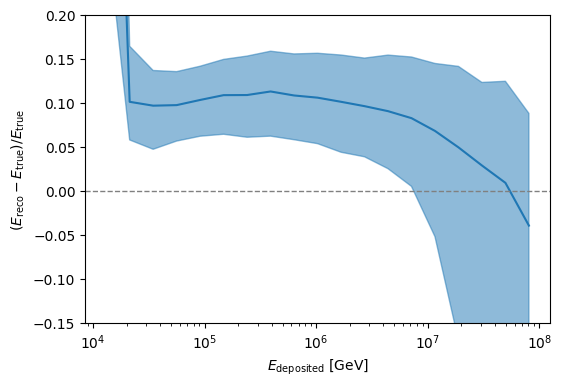
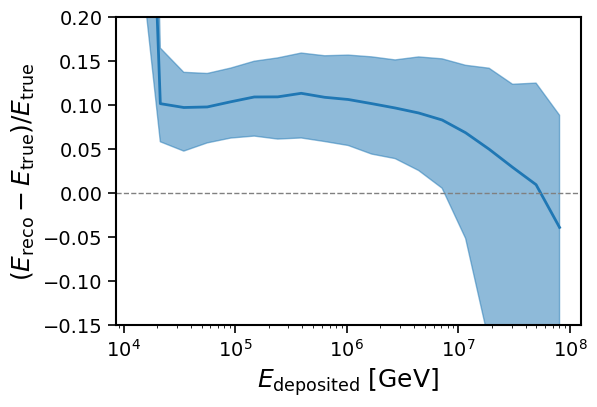
update labelsize

diff --git a/performance/main_spice.py b/performance/main_spice.py
@@ -7,10 +7,12 @@ import matplotlib.pyplot as plt
 from common import calculator # tianlu
 from copy import deepcopy
 
+plt.style.use("style.mplstyle")
+
 # hdf path
 reco_version_spice = "spice_tau_reco"
 hdf_path_spice = f"/data/user/tvaneede/GlobalFit/reco_processing/hdf/output/{reco_version_spice}"
-plotting_main_path = f"/data/user/tvaneede/GlobalFit/reco_processing/performance/output/{reco_version_spice}"
+plotting_main_path = f"/data/user/tvaneede/GlobalFit/reco_processing/performance/plots/{reco_version_spice}"
 
 reco_version_ftp = "taureco_iceprod_v1"
 hdf_path_ftp = f"/data/user/tvaneede/GlobalFit/reco_processing/hdf/output/{reco_version_ftp}/merged"

diff --git a/performance/main.py b/performance/main.py
@@ -13,7 +13,7 @@ colors = ["C0","C3","C5","C4"]
 # reco_version = "taureco_iceprod_v0"
 reco_version = "taureco_iceprod_v3"
 hdf_path = f"/data/user/tvaneede/GlobalFit/reco_processing/hdf/output/{reco_version}/merged"
-plotting_main_path = f"/data/user/tvaneede/GlobalFit/reco_processing/performance/output/{reco_version}"
+plotting_main_path = f"/data/user/tvaneede/GlobalFit/reco_processing/performance/plots/{reco_version}"
 
 os.system(f"mkdir -p {plotting_main_path}")
 
